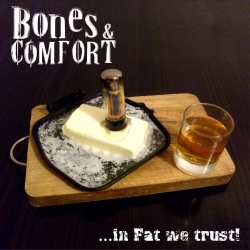
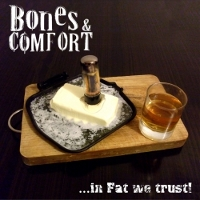
sistemata pagina music

diff --git a/css/style.css b/css/style.css
@@ -43,10 +43,10 @@ width:820px; height: 430px; overflow: hidden; padding:10px}
 .spacer-30 {height: 30px;}
 
 /* LISTA ALBUM [pagina music */
-.album_entry {margin-top:20px}
-.album_entry .cover {float:left; width: 260px; text-align: center; padding:5px;}
-.album_entry .cover div {width: 250px;height:250px;background: black no-repeat 50% 50%;}
-.album_entry .album_description {float:left; width: 520px; margin-left: 10px;padding: 5px;margin-top:15px;}
+.album_entry {margin: 10px auto; width: 720px;}
+.album_entry .cover {float:left; width: 200px; text-align: center;}
+.album_entry .cover div {width: 200px;height:200px;background: black no-repeat 50% 50%;}
+.album_entry .album_description {float:left; width: 520px;}
 
 .event_list { list-style-type: none;}
 .event_list li {padding-bottom: 3px;clear:both;}

diff --git a/music.php b/music.php
@@ -1,8 +1,8 @@
 <div class="page_layer">
     <div class="album_entry">
         <div class="cover">
-            <div width="250" style="background: url(images/ifwt.jpg)">
-                <img src="/images/cd_cover.png" width="250">
+            <div width="200" style="background: url(images/ifwt.jpg)">
+                <img src="/images/cd_cover.png" width="200">
             </div>
         </div>
         <div class="album_description">     
@@ -11,12 +11,6 @@
                 <param name="allowscriptaccess" value="always"></param> 
                 <embed allowscriptaccess="always" height="200" width="100%" src="http://player.soundcloud.com/player.swf?url=http%3A%2F%2Fapi.soundcloud.com%2Fplaylists%2F226276&amp;show_comments=false&amp;auto_play=false&amp;show_playcount=false&amp;show_artwork=false" type="application/x-shockwave-flash" ></embed> 
             </object> 
-            <br/>
-            <p style="line-height: 32px;height:32px">buy it on 
-                    <a onclick="javascript:_gaq.push(['_trackPageview', '/download/infatwetrust']);" target="_blank" href="http://bonescomfort.bandcamp.com/album/in-fat-we-trust?action=buy&from=embed">
-                     <img title="bandcamp" src="/images/bandcamp_32.png" border="0" height="32" width="32" align="middle">
-                    </a>
-            </p>
         </div>
         <br style="clear:both">
     </div>
